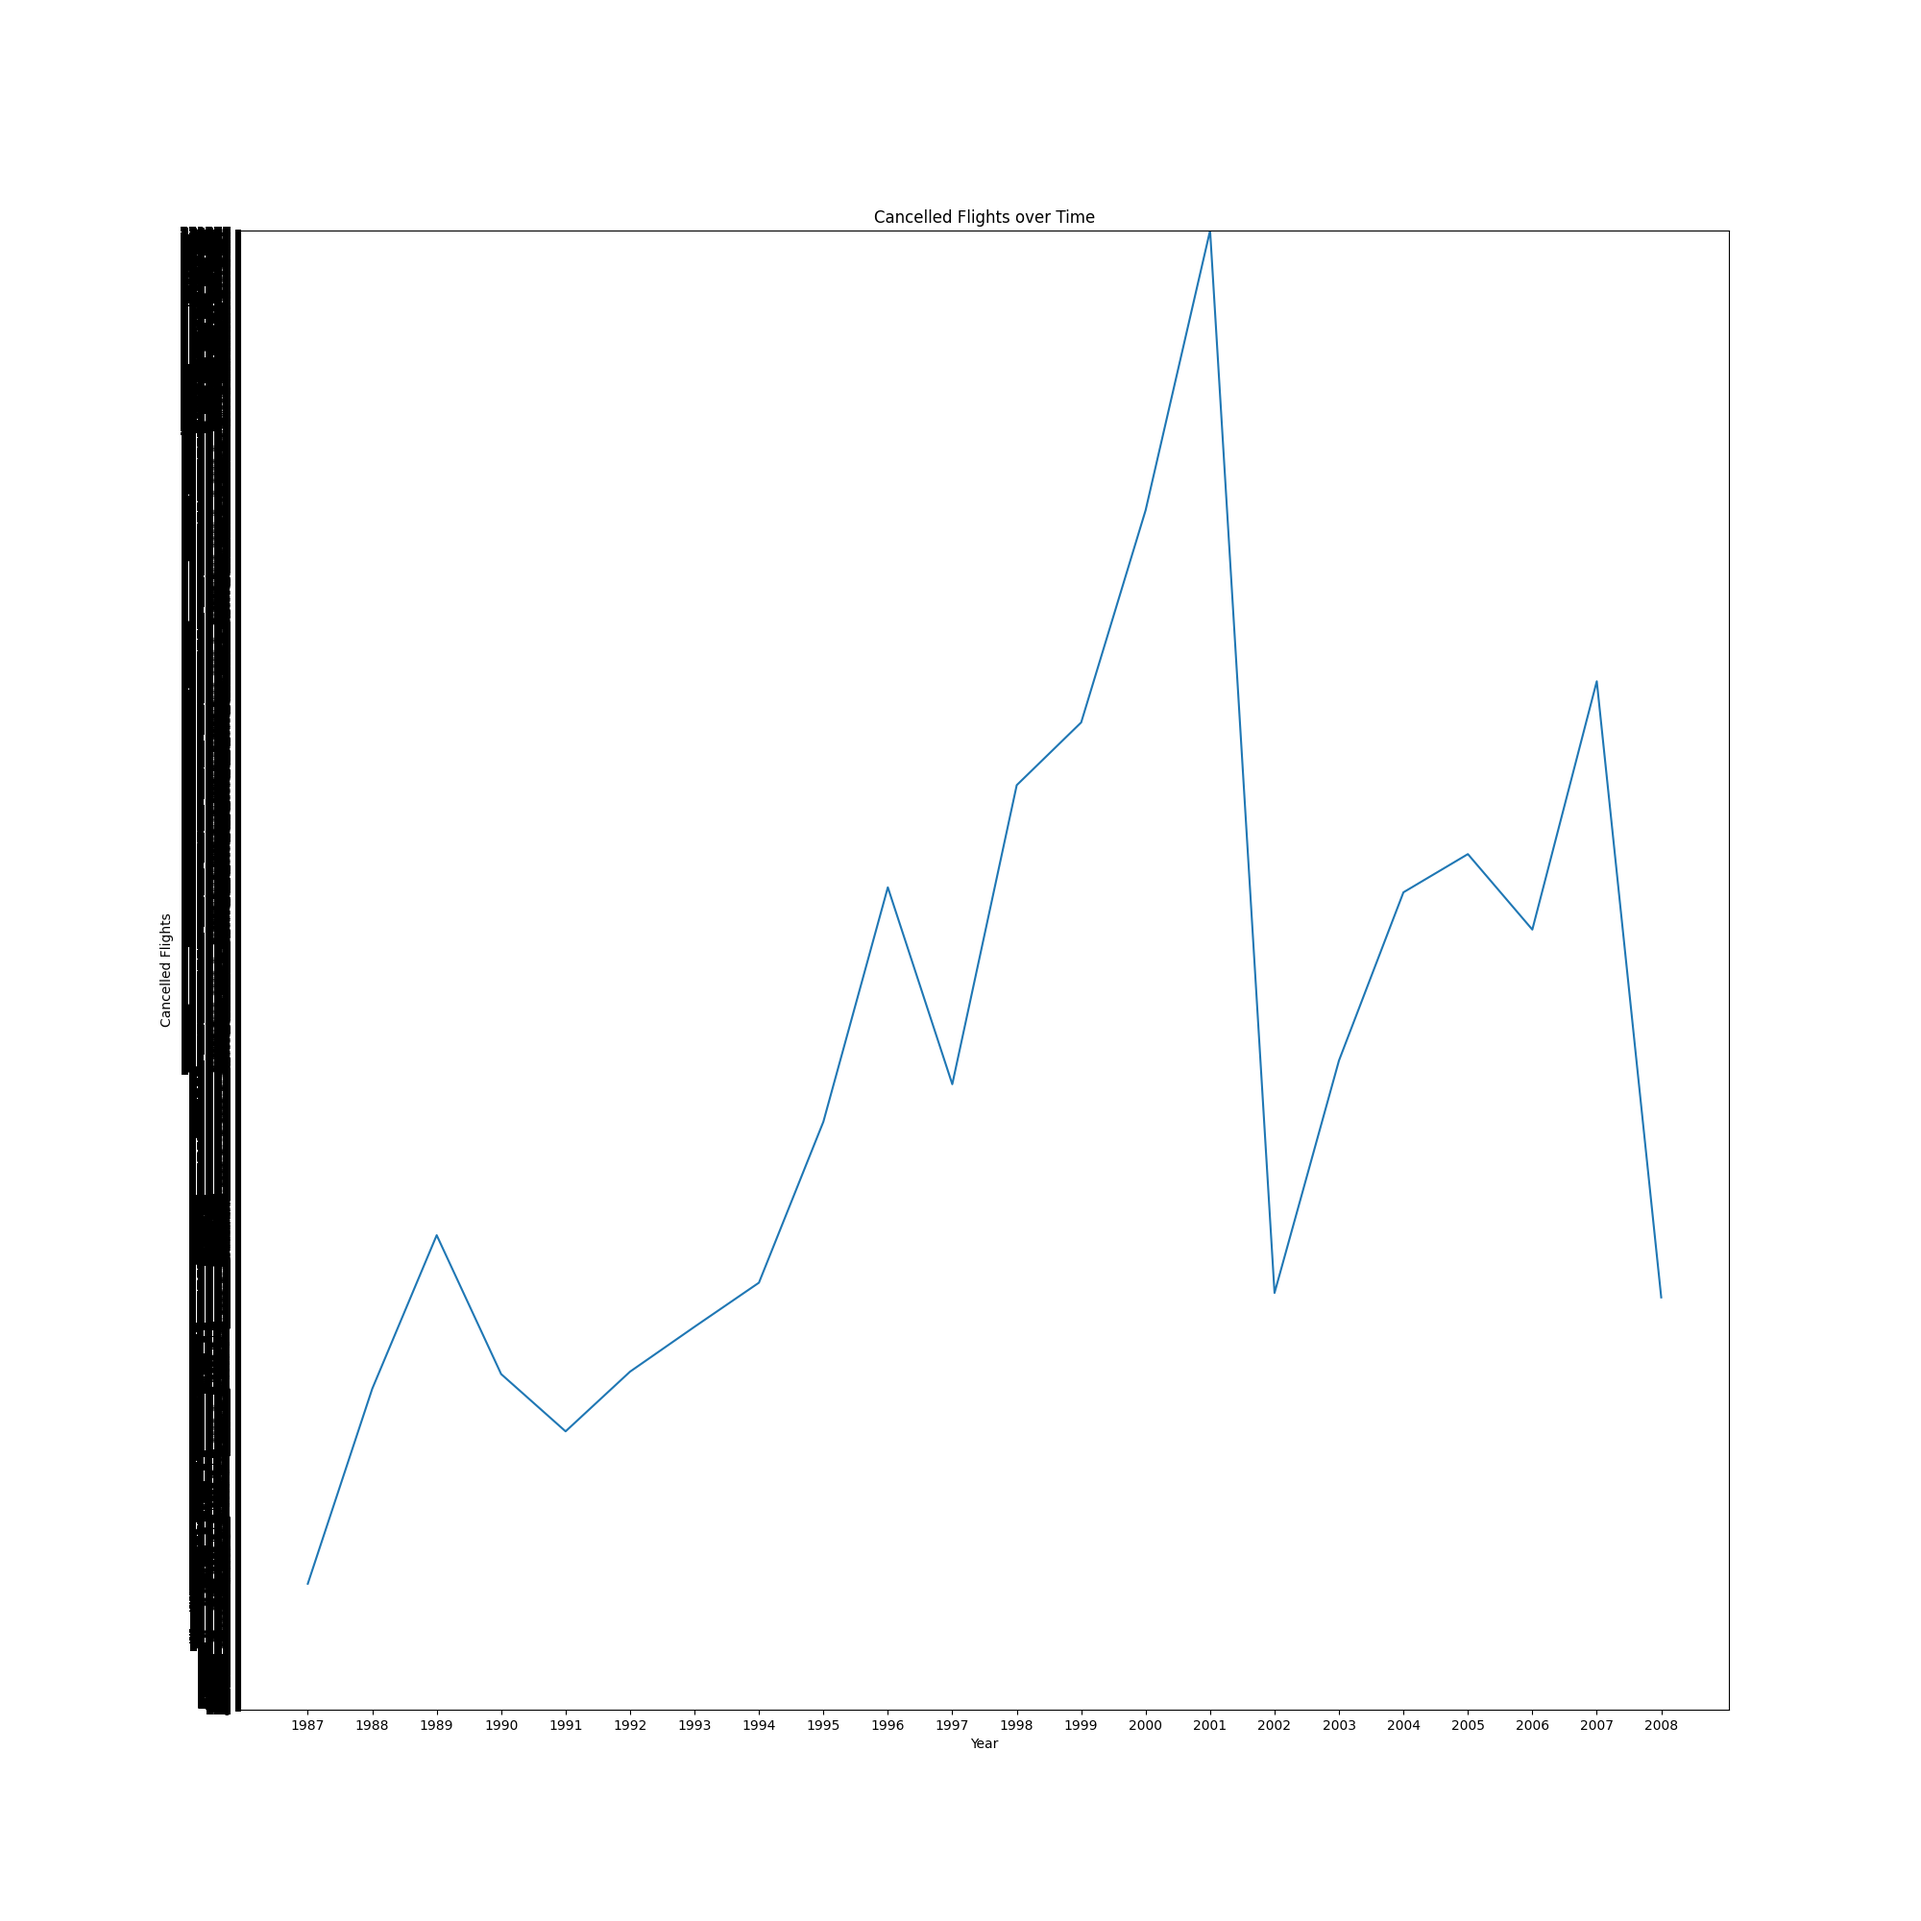
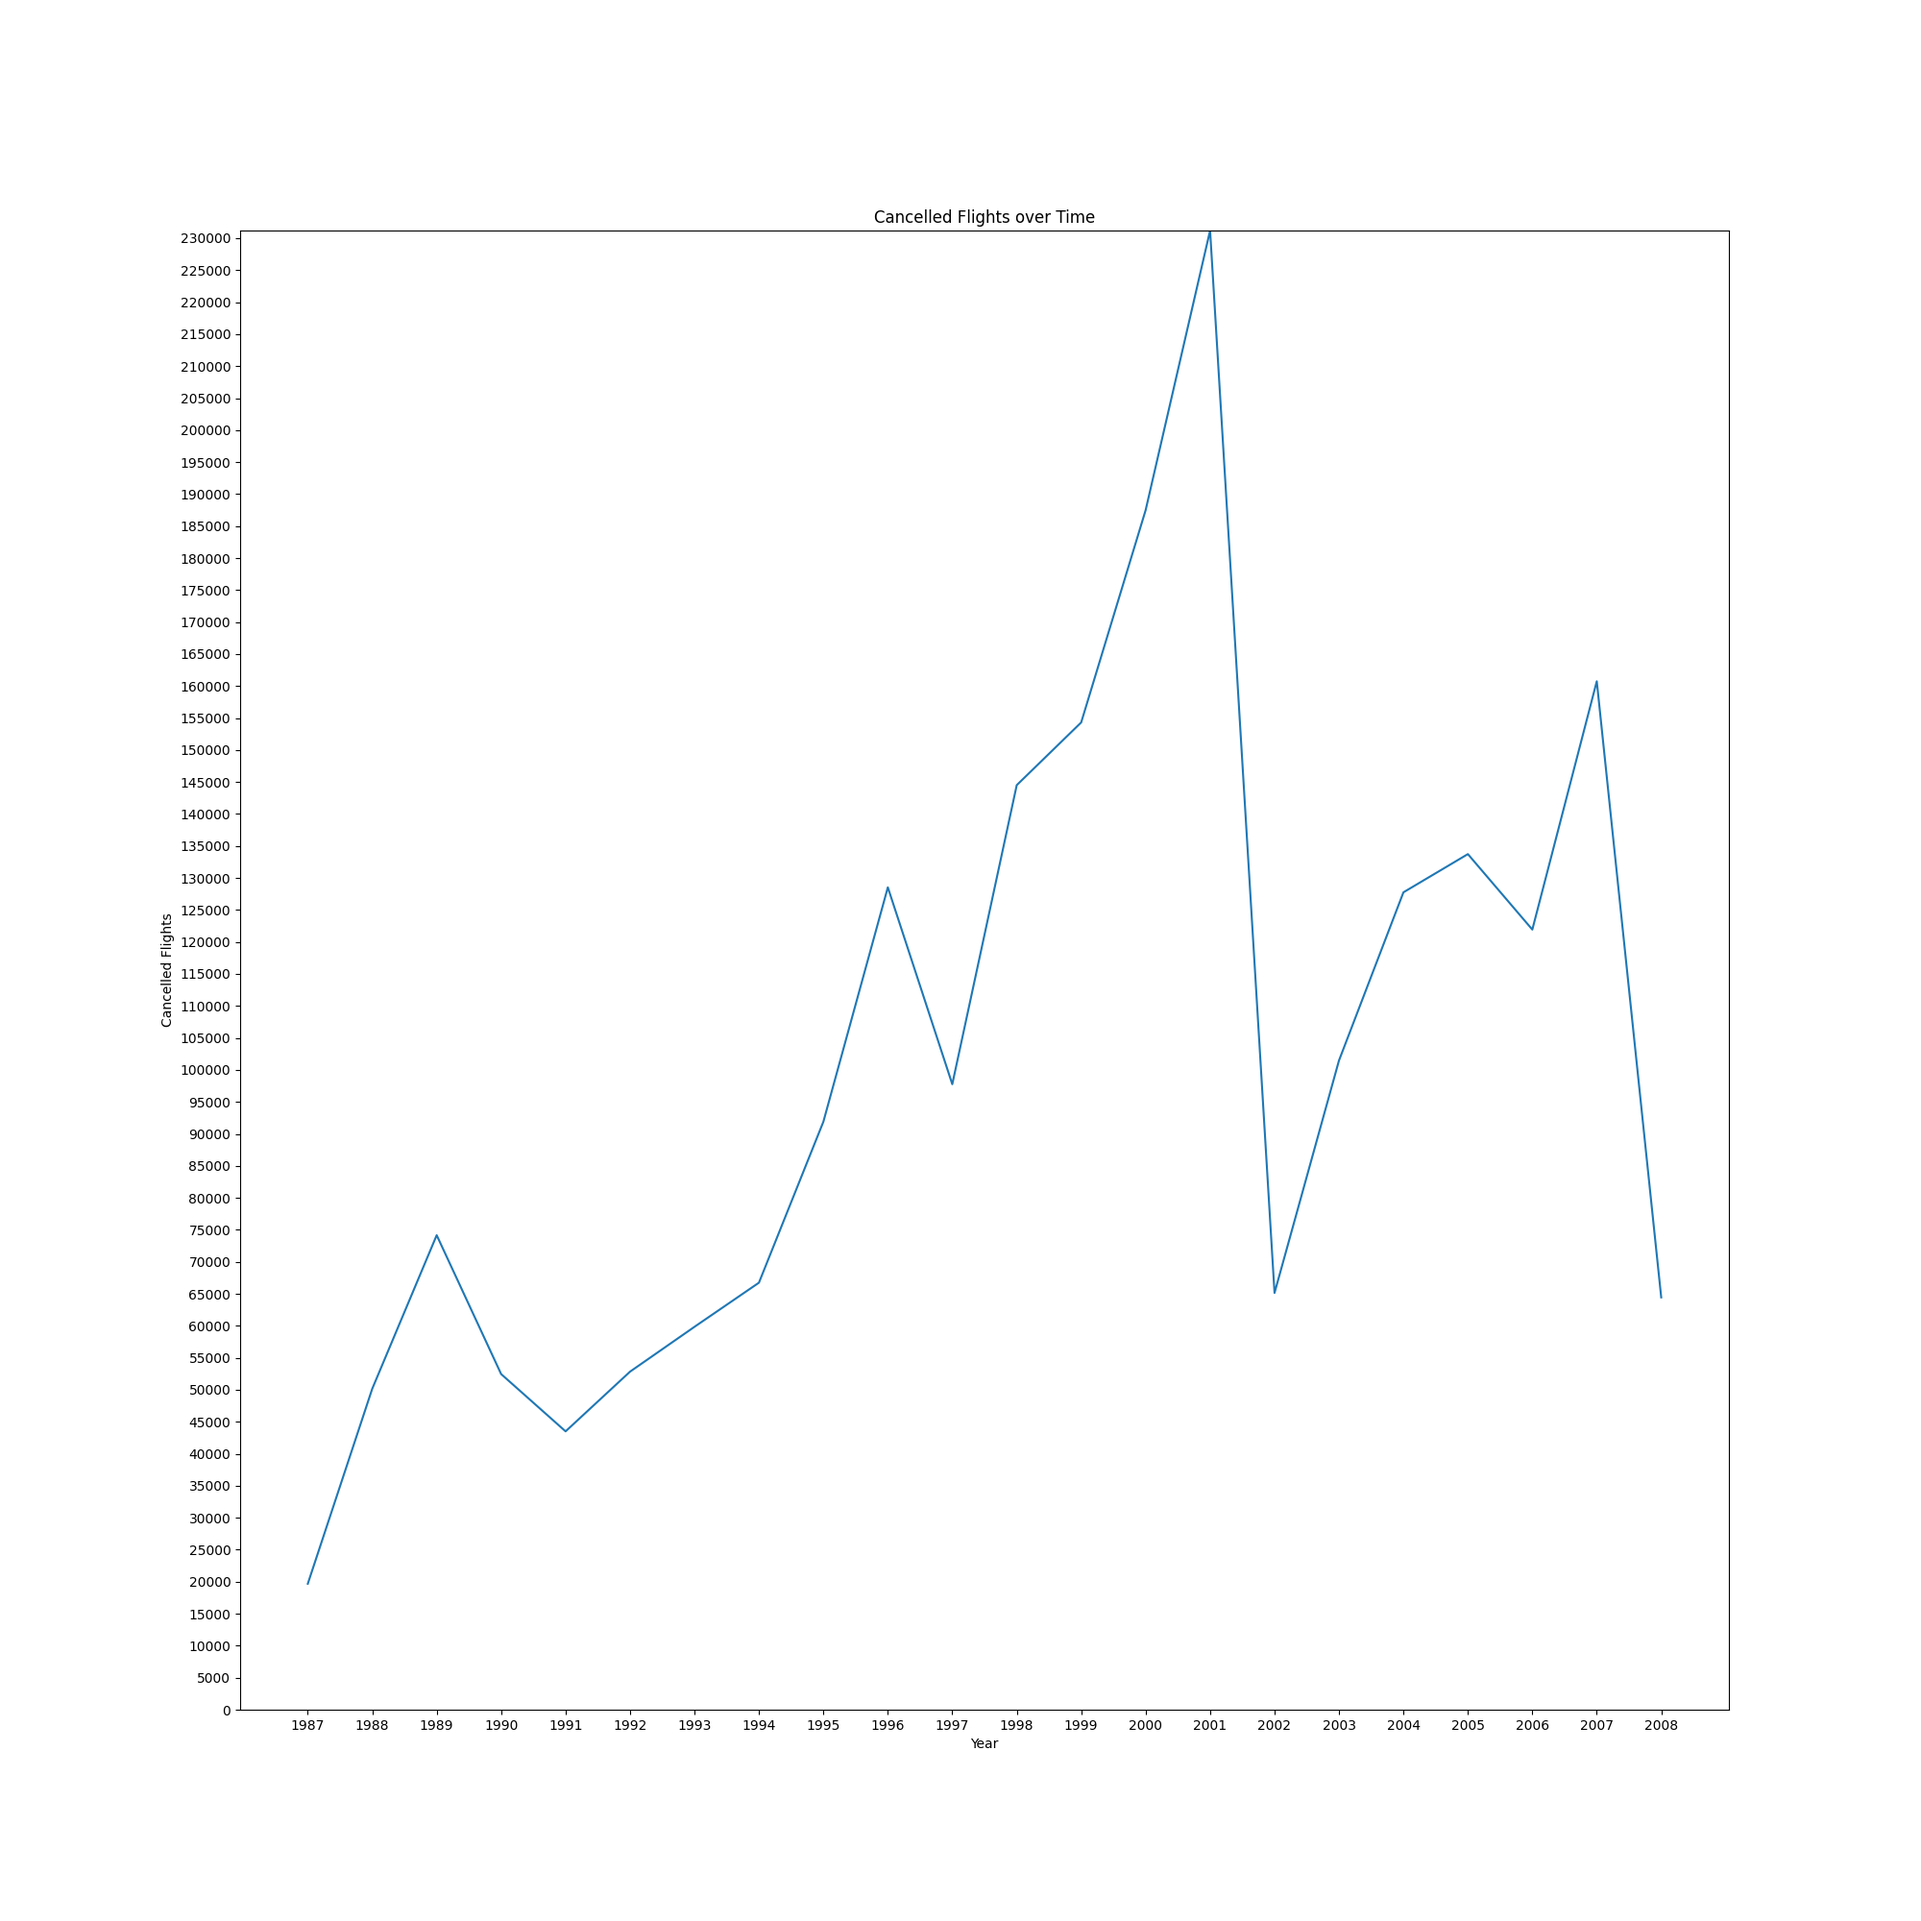
fixed

Changed region(s): [[0.093, 0.093, 0.124, 0.899]]

diff --git a/main.py b/main.py
@@ -156,7 +156,7 @@ def plot_cancelled():
     plt.ylim(0, round(max(cancelled.values()))+1)
 
     # Set the y-axis ticks
-    plt.yticks(range(0, round(max(cancelled.values()))+1))
+    plt.yticks(range(0, round(max(cancelled.values()))+1, 5000))
     print(round(max_cancelled))
     plt.xticks(range(0, len(file_names), 1))
 
